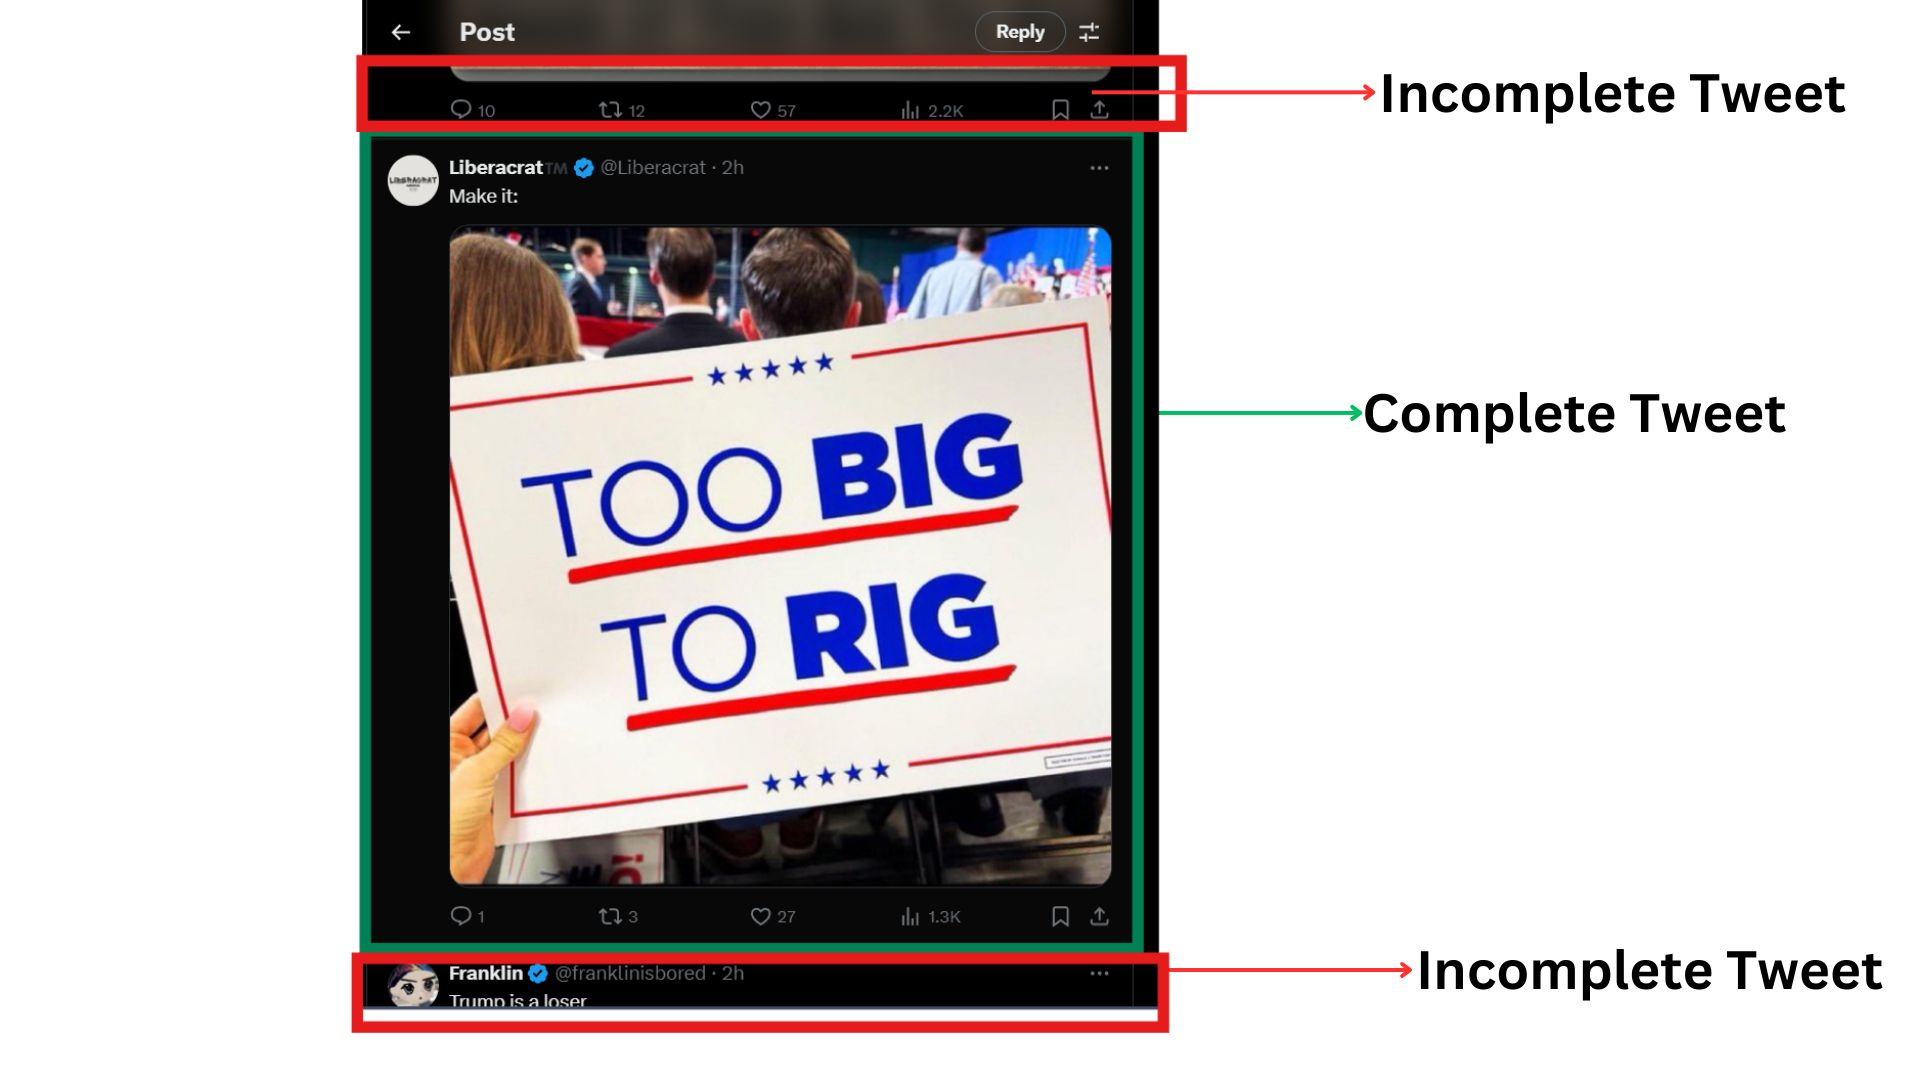
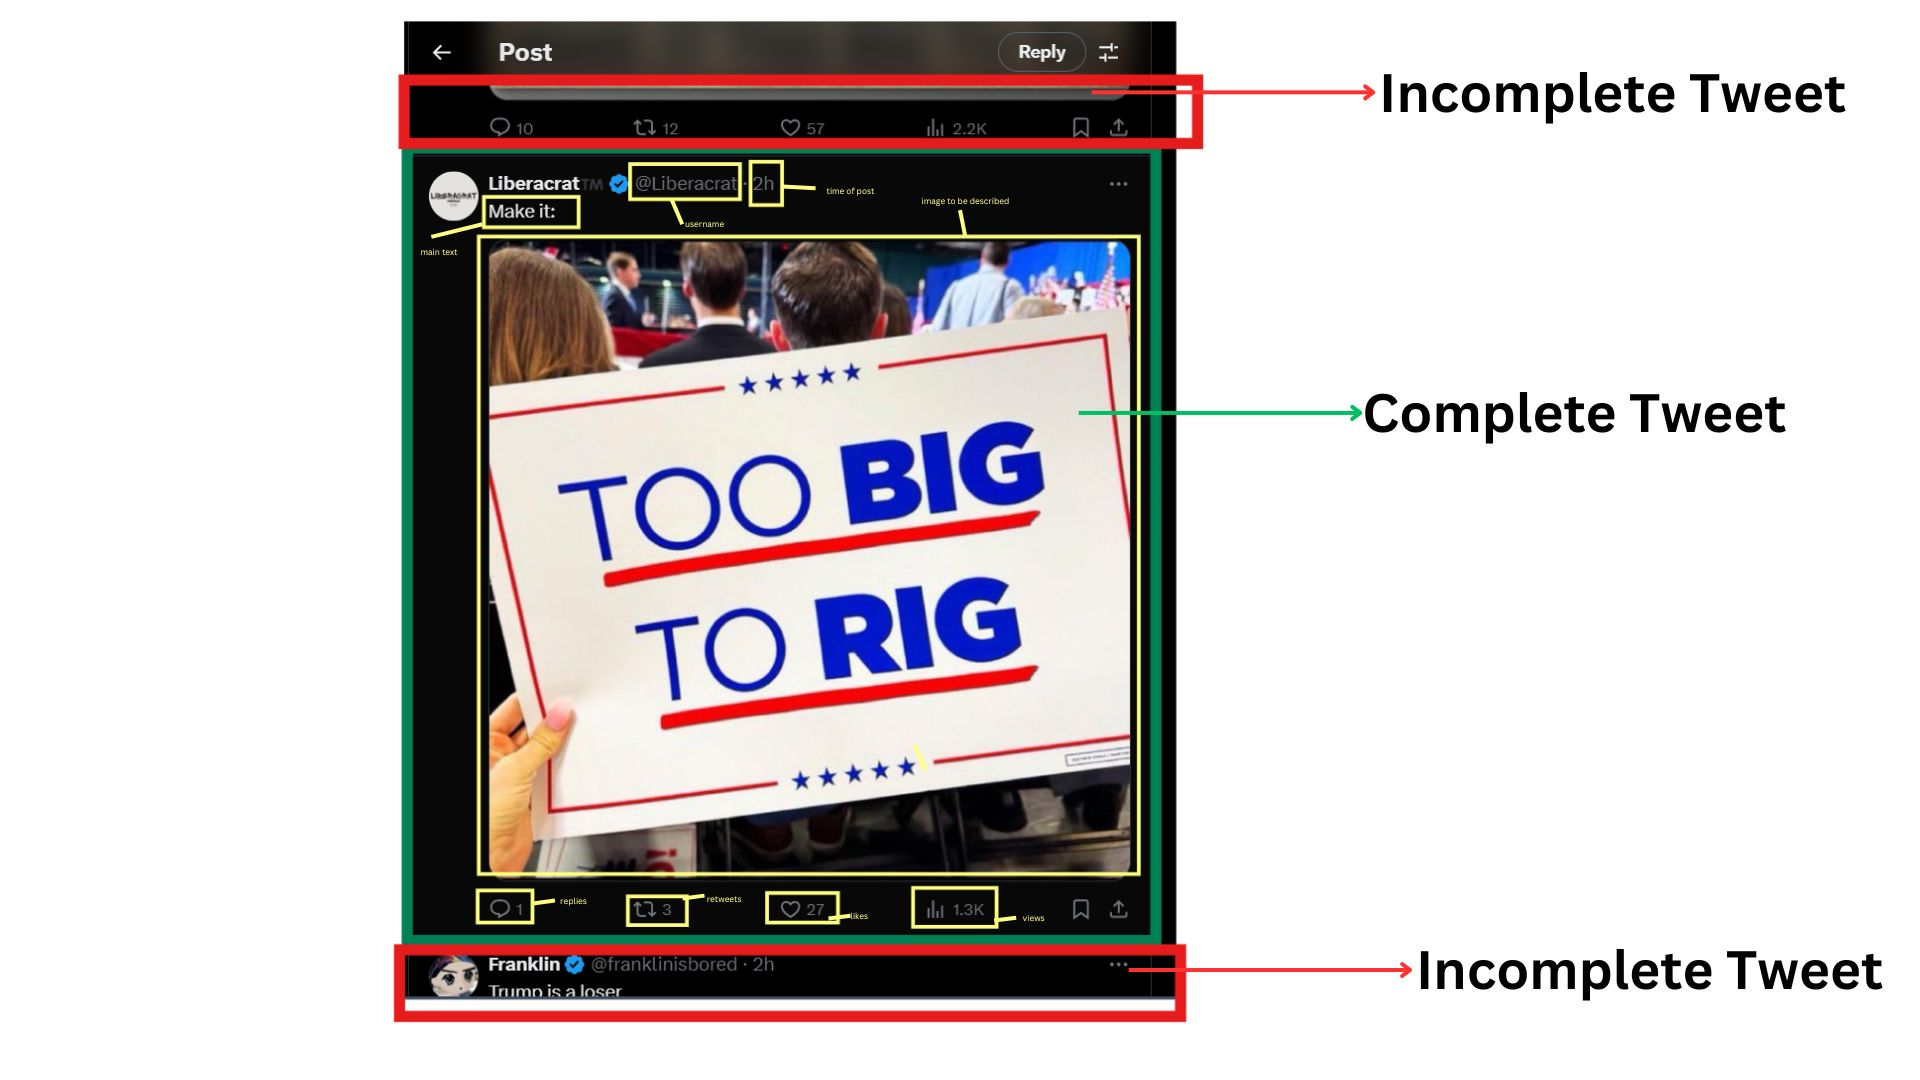
Visualization and Attribution
Here, I edited the code to display a progress bar instead of unnecessary print statements. And annotated the completeness.jpg file to include tweet object annotations.

Changed region(s): [[0.1562, 0.0, 0.625, 0.9778]]

diff --git a/Main.py b/Main.py
@@ -4,6 +4,7 @@ from google.generativeai.types import safety_types
 from dotenv import load_dotenv
 import json
 import time
+from tqdm import tqdm
 
 # Load environment variables
 load_dotenv()
@@ -30,7 +31,6 @@ current_key_index = 0
 def configure_api():
     global current_key_index
     genai.configure(api_key=api_keys[current_key_index])
-    print(f"Configured with API key: GEMINI_API_KEY{current_key_index + 1}")
 
 # Initial configuration
 configure_api()
@@ -67,10 +67,10 @@ safety_settings = [
 completeness_path = "Completeness.jpg"
 screenshots_root_folder = "Screenshots/trump/replies"
 
-# Updated prompt to improve sentiment analysis
+# Prompt (unchanged)
 prompt = (
     "Analyze the given image files. Extract any relevant Twitter interaction details for each complete Tweet, Reply, or Quote, ignoring incomplete ones. "
-    "The first image shows a sample difference between complete and incomplete tweet.\n\n"
+    "The first image shows a sample difference between complete and incomplete tweet; and identifies objects within complete tweet.\n\n"
     "Only Analyze the second image. Provide the details in the following JSON format: \n\n"
     "{\n"
     "  \"tweets\": [\n"
@@ -79,112 +79,99 @@ prompt = (
     "      \"content_type\": \"tweet\",  # Possible values: original tweet (only Donald J. Trump's Tweets), reply (All other Tweets)\n"
     "      \"text_body\": \"\",  # Extracted text content from the tweet/reply/quote\n"
     "      \"username\": \"\",  # Username of the tweet\n"
-    "      \"image_text_description\": \"\", # Description of the image (with emotional traits) associated with the tweet. If no image, leave empty. \n"
+    "      \"image_text_description\": \"\", # Describe the image from the perspective of the creator of the image. Convey the associated emotions. \n"
     "      \"likes\": 0,\n"
     "      \"replies\": 0,\n"
     "      \"retweets\": 0,\n"
     "      \"views\": 0,\n"
     "      \"time_of_post\": \"\",  # Time when the content was posted\n"
+    "      \"promotional_or_irrelevant\": false,  # true if the tweet is promotional or irrelevant to the campaign, false otherwise\n"
     "      \"sentiment_scores\": {  # Scored between -1 to 1, accounting for both text and image. 0 indicates not present, -1 indicates extreme opposite and 1 indicates extreme value for said sentiment\n"
-    "        \"supportive\": 0.0,    # -1: strongly against, 0: neutral, 1: strongly supportive\n"
-    "        \"hostile\": 0.0,       # -1: extremely friendly, 0: neutral, 1: extremely hostile\n"
-    "        \"sarcastic\": 0.0,     # -1: no sarcasm, 1: highly sarcastic\n"
-    "        \"ambivalent\": 0.0,    # -1: no mixed feelings, 1: extremely ambivalent\n"
-    "        \"nationalist\": 0.0,   # -1: anti-nationalist, 1: highly nationalist\n"
-    "        \"anti_elite\": 0.0,    # -1: pro-elite, 1: highly anti-elite\n"
-    "        \"fearful\": 0.0,       # -1: no fear, 1: extreme fear present\n"
-    "        \"optimistic\": 0.0,    # -1: extremely pessimistic, 1: highly optimistic\n"
-    "        \"skeptical\": 0.0,     # -1: not skeptical, 1: highly skeptical\n"
-    "        \"disengaged\": 0.0     # -1: highly engaged, 1: extremely disengaged\n"
+    "        \"pro_trump\": 0.0,       # -1: strongly anti-Trump, 0: neutral, 1: strongly pro-Trump\n"
+    "        \"hostile_to_trump\": 0.0, # -1: friendly to Trump, 0: neutral, 1: extremely hostile to Trump\n"
+    "        \"sarcastic_about_trump\": 0.0, # -1: no sarcasm about Trump, 1: highly sarcastic about Trump\n"
+    "        \"ambivalent_about_trump\": 0.0, # -1: clear stance on Trump, 1: extremely ambivalent about Trump\n"
+    "        \"nationalist_pro_trump\": 0.0, # -1: anti-nationalist/anti-Trump, 1: highly nationalist in support of Trump\n"
+    "        \"anti_elite_pro_trump\": 0.0, # -1: pro-elite/anti-Trump, 1: highly anti-elite in support of Trump\n"
+    "        \"fearful_pro_trump\": 0.0, # -1: no fear, pro-Trump, 1: extreme fear, anti-Trump\n"
+    "        \"optimistic_about_trump\": 0.0, # -1: pessimistic about Trump, 1: highly optimistic about Trump\n"
+    "        \"skeptical_of_trump\": 0.0, # -1: trusting of Trump, 1: highly skeptical of Trump\n"
+    "        \"disengaged_from_trump\": 0.0 # -1: highly engaged with Trump, 1: extremely disengaged from Trump\n"
     "      }\n"
     "    }\n"
     "  ]\n"
     "}"
 )
+
 # Create the model instance using gemini-1.5-flash-8b
 def create_model():
-    try:
-        model = genai.GenerativeModel(
-            model_name="gemini-1.5-flash-8b",
-            generation_config=generation_config,
-            safety_settings=safety_settings
-        )
-        print("Model created successfully.")
-        return model
-    except Exception as e:
-        print(f"Error creating model: {e}")
-        exit(1)
+    return genai.GenerativeModel(
+        model_name="gemini-1.5-flash-8b",
+        generation_config=generation_config,
+        safety_settings=safety_settings
+    )
 
 model = create_model()
+
+# Count total number of PNG files
+total_files = sum(len([f for f in os.listdir(os.path.join(screenshots_root_folder, d)) if f.endswith('.png')])
+                  for d in os.listdir(screenshots_root_folder) if os.path.isdir(os.path.join(screenshots_root_folder, d)))
 
 # Loop through each folder in the screenshots root folder and process the PNG files
 results = []
 output_file = "twitter_analysis_results.json"
 
-for folder_name in os.listdir(screenshots_root_folder):
-    folder_path = os.path.join(screenshots_root_folder, folder_name)
+with tqdm(total=total_files, desc="Processing images") as pbar:
+    for folder_name in os.listdir(screenshots_root_folder):
+        folder_path = os.path.join(screenshots_root_folder, folder_name)
 
-    # Check if it's a directory and treat it as a tweet ID folder
-    if os.path.isdir(folder_path):
-        tweet_id = folder_name
+        # Check if it's a directory and treat it as a tweet ID folder
+        if os.path.isdir(folder_path):
+            tweet_id = folder_name
 
-        for file_name in os.listdir(folder_path):
-            if file_name.endswith(".png"):
-                file_path = os.path.join(folder_path, file_name)
+            for file_name in os.listdir(folder_path):
+                if file_name.endswith(".png"):
+                    file_path = os.path.join(folder_path, file_name)
 
-                retries = 0
-                max_retries = len(api_keys)
+                    retries = 0
+                    max_retries = len(api_keys)
 
-                while retries < max_retries:
-                    try:
-                        # Upload the completeness reference image again after switching keys
-                        completeness_reference = genai.upload_file(completeness_path)
-                        # Upload the screenshot
-                        file_reference = genai.upload_file(file_path)
-                        print(f"Uploaded screenshot: {file_name} from folder: {tweet_id}")
-
-                        # Send request to the model with text prompt and the two images
-                        response = model.generate_content(
-                            [prompt, completeness_reference, file_reference]
-                        )
-
-                        # Store response JSON with the tweet ID
-                        response_data = {
-                            "tweet_id": tweet_id,
-                            "file_name": file_name,
-                            "response": response.text
-                        }
-                        results.append(response_data)
-
-                        # Save results to a JSON file after processing each image
+                    while retries < max_retries:
                         try:
+                            # Upload the completeness reference image again after switching keys
+                            completeness_reference = genai.upload_file(completeness_path)
+                            # Upload the screenshot
+                            file_reference = genai.upload_file(file_path)
+
+                            # Send request to the model with text prompt and the two images
+                            response = model.generate_content(
+                                [prompt, completeness_reference, file_reference]
+                            )
+
+                            # Store response JSON with the tweet ID
+                            response_data = {
+                                "tweet_id": tweet_id,
+                                "file_name": file_name,
+                                "response": response.text
+                            }
+                            results.append(response_data)
+
+                            # Save results to a JSON file after processing each image
                             with open(output_file, "w") as json_file:
                                 json.dump(results, json_file, indent=4)
-                            print(f"Results saved to {output_file} after processing {file_name}")
+
+                            break
+
                         except Exception as e:
-                            print(f"Error saving results to JSON file after processing {file_name}: {e}")
+                            # Cycle to the next API key regardless of error type
+                            current_key_index = (current_key_index + 1) % len(api_keys)
+                            if current_key_index == 0:
+                                time.sleep(30)
+                            configure_api()
+                            model = create_model()
 
-                        break
+                        retries += 1
 
-                    except Exception as e:
-                        print(f"Error processing {file_name} in folder {tweet_id} with API key {current_key_index + 1}: {e}")
+                    pbar.update(1)
 
-                        # Cycle to the next API key regardless of error type
-                        current_key_index = (current_key_index + 1) % len(api_keys)
-                        if current_key_index == 0:
-                            print("All API keys exhausted. Waiting for 30 seconds before retrying...")
-                            time.sleep(30)
-                        configure_api()
-                        model = create_model()
-
-                    retries += 1
-
-# Save any remaining results to a JSON file after processing all images
-try:
-    with open(output_file, "w") as json_file:
-        json.dump(results, json_file, indent=4)
-    print(f"Final results saved to {output_file}")
-except Exception as e:
-    print(f"Error saving final results to JSON file: {e}")
-
-
+print(f"Analysis complete. Results saved to {output_file}")
